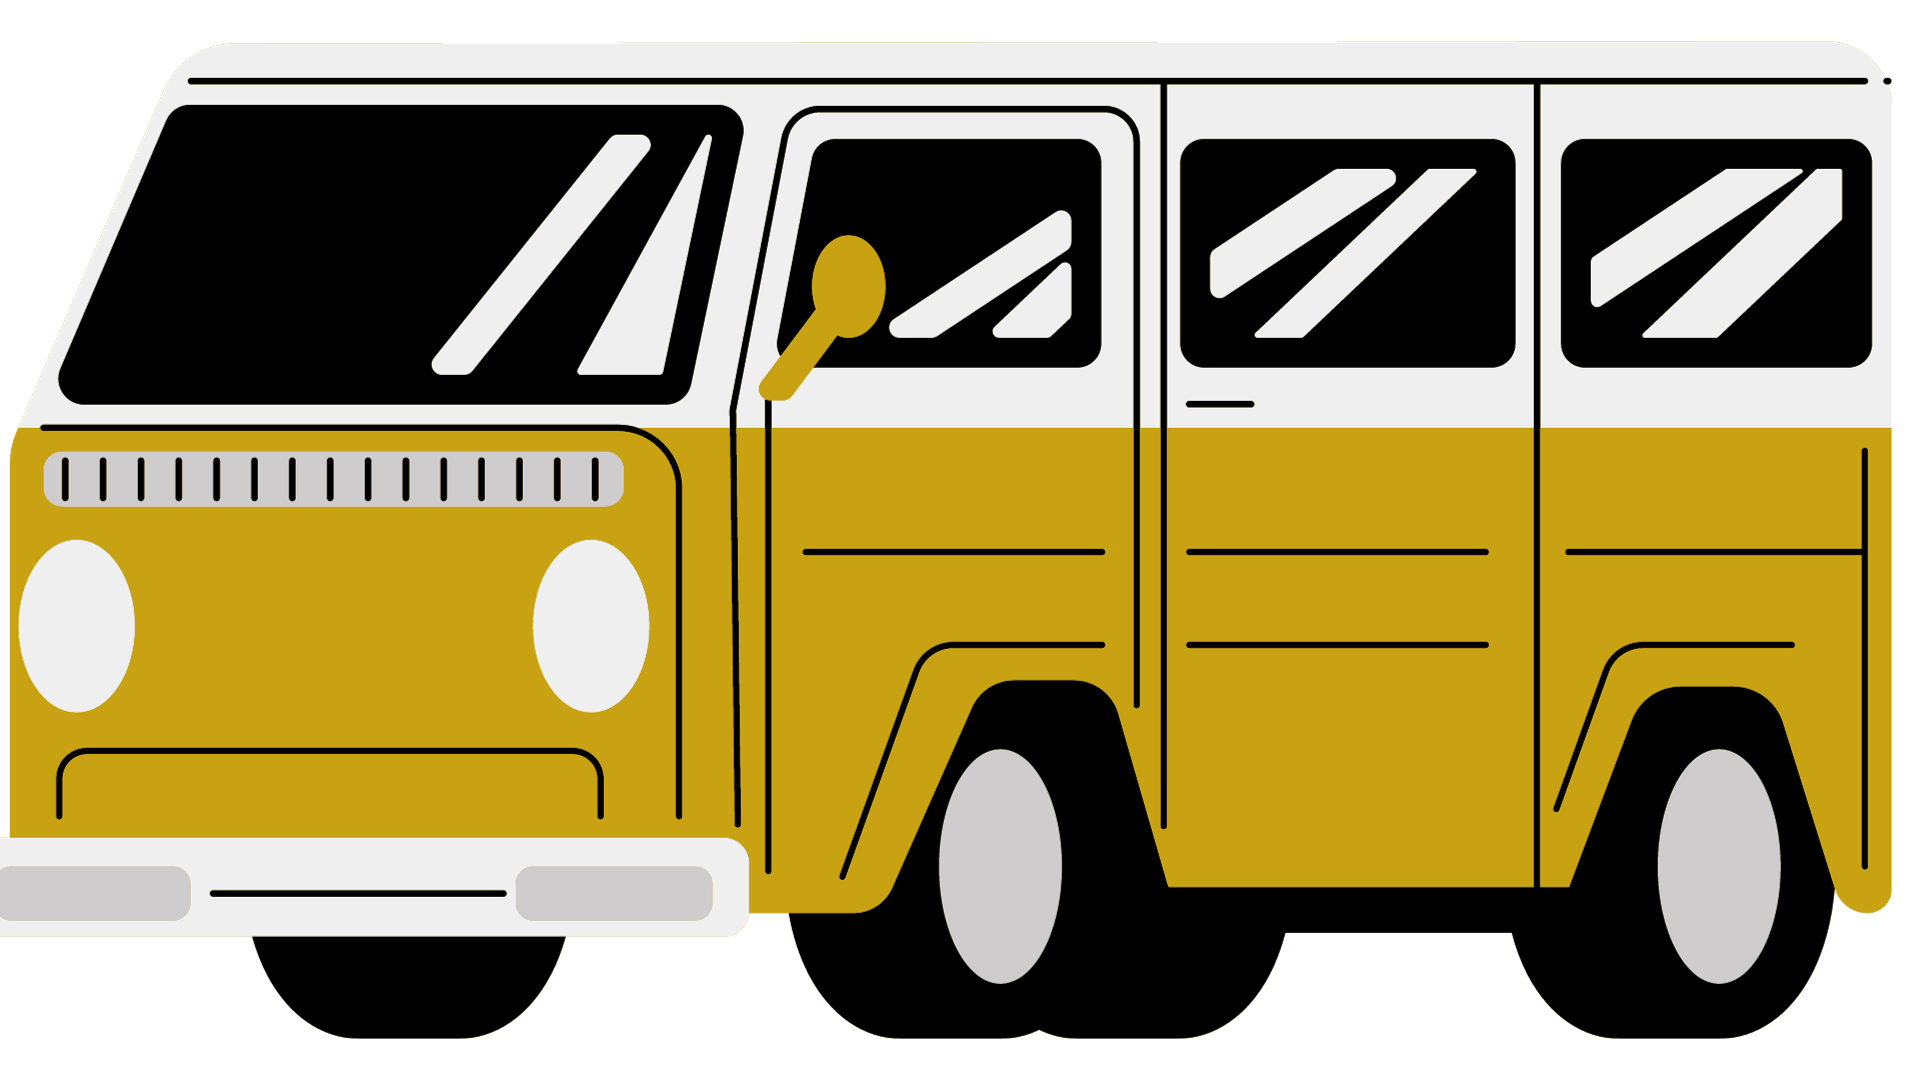
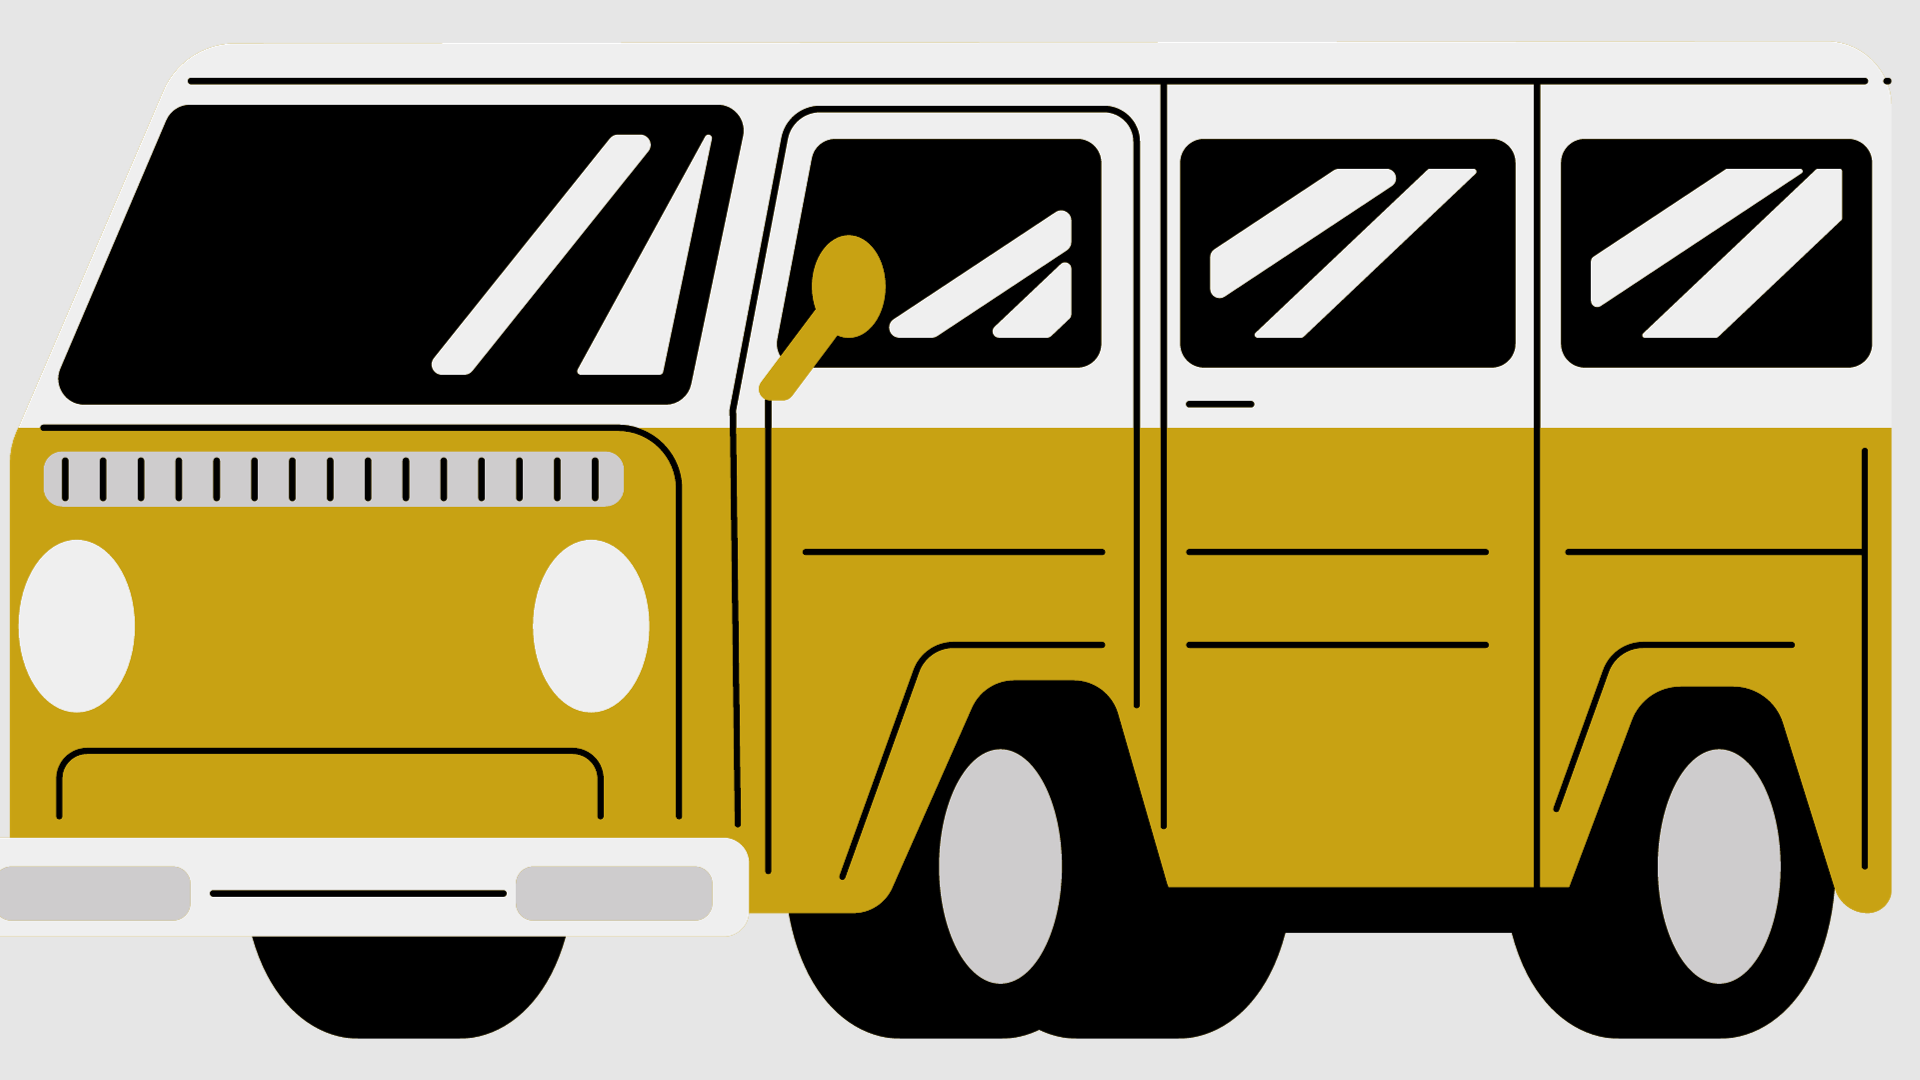
Cor de fundo, fotos, icones de produtos

Changed region(s): [[0.0, 0.0, 1.0, 1.0]]

diff --git a/CLIENTE/view/css/produtoStyle.css b/CLIENTE/view/css/produtoStyle.css
@@ -13,6 +13,7 @@ body{
     color: #171a20;
     font-family: 'M PLUS 1p', sans-serif;
     position: relative;
+    background-color: rgb(230, 230, 230);
 }
 /* HEADER */
 header{

diff --git a/CLIENTE/view/css/logSiginStyle.css b/CLIENTE/view/css/logSiginStyle.css
@@ -12,6 +12,7 @@
 body{
     color: #171a20;
     font-family: 'M PLUS 1p', sans-serif;
+    background-color: rgb(230, 230, 230);
     position: relative;
 }
 /* HEADER */

diff --git a/CLIENTE/view/css/contatoStyle.css b/CLIENTE/view/css/contatoStyle.css
@@ -14,6 +14,7 @@ html{
 }
 body{
     position: relative;
+    background-color: rgb(230, 230, 230);
 }
 
 /* HEADER */

diff --git a/CLIENTE/view/css/sobreStyle.css b/CLIENTE/view/css/sobreStyle.css
@@ -14,6 +14,7 @@ html{
 }
 body{
     position: relative;
+    background-color: rgb(230, 230, 230);
 }
 
 /* HEADER */

diff --git a/CLIENTE/view/sobre.php b/CLIENTE/view/sobre.php
@@ -109,7 +109,7 @@
         </div>
         
         <div class="fotos">
-            <img src="img/imgSobreNos/f6.webp" alt="">
+            <img src="img/imgSobreNos/f6.jpeg" alt="">
             <p class="nomes">Rafael Henrique Loureiro </p>
             <p class="funcao">Documentador</p>
         </div>
